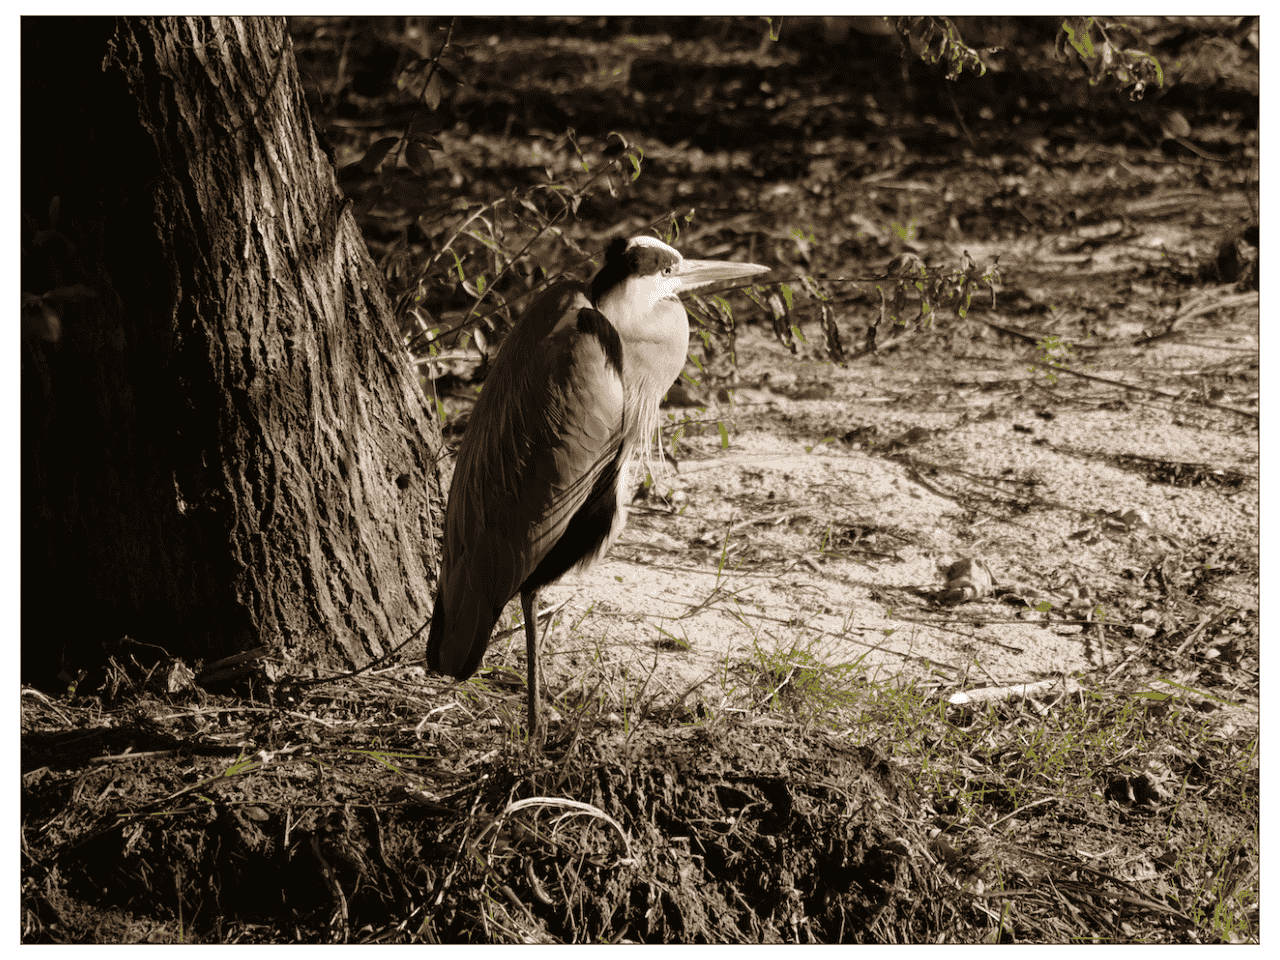
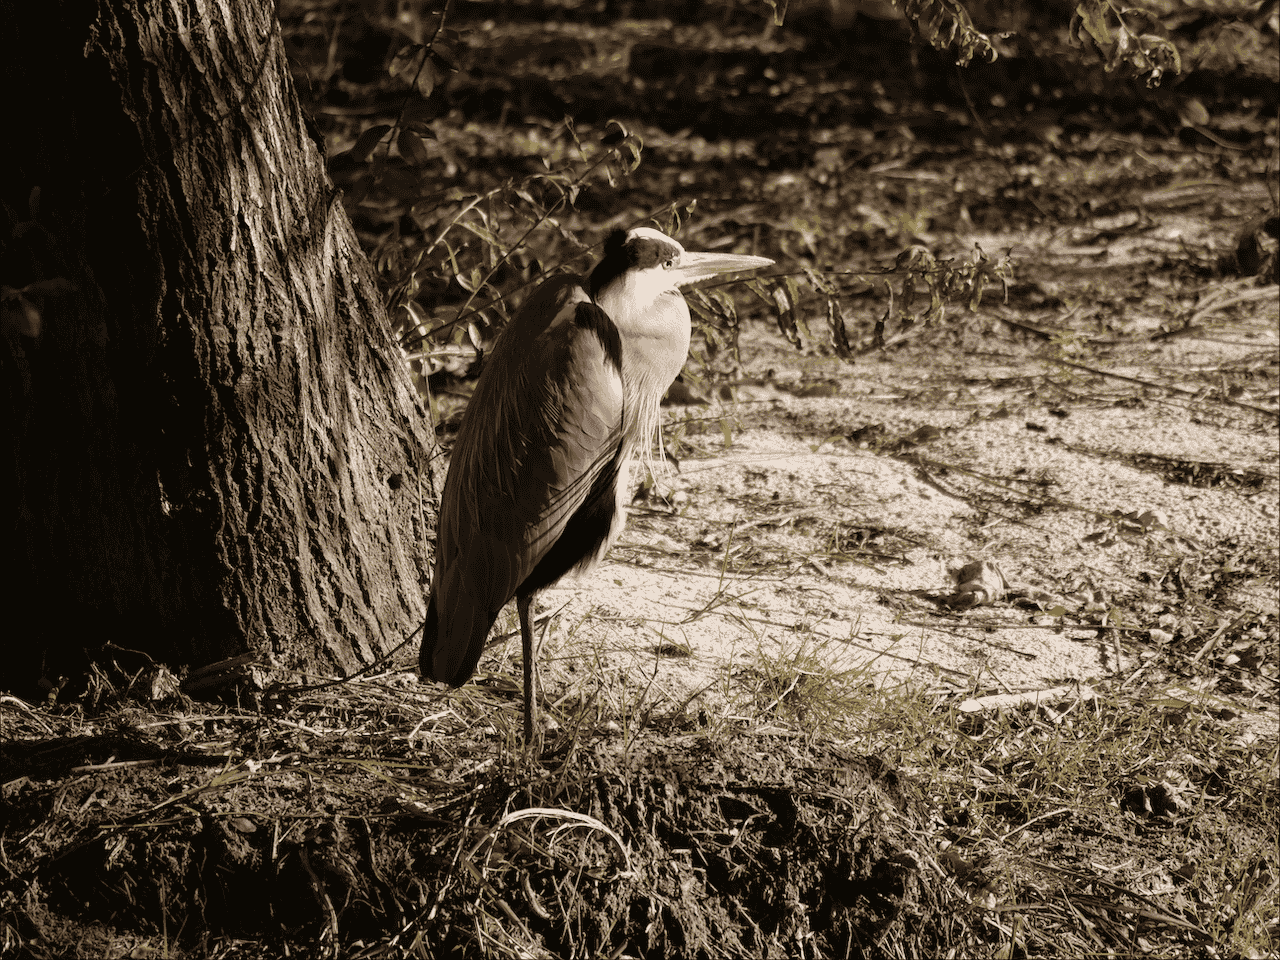
rm border

diff --git a/README.md b/README.md
@@ -63,10 +63,10 @@ Here's an example where color quantization does not work as well:
 using CairoMakie, LibImageQuant, PNGFiles
 CairoMakie.activate!(px_per_unit=1)
 # https://ericphanson.com/photos/?photo=photos%2F2025%2F11%2FP1038134-0464108A
-img = PNGFiles.load("heron.png")
+img = PNGFiles.load("assets/heron.png")
 img = rotr90(img)
 
-fig = Figure(; size=size(img));
+fig = Figure(; size=size(img), figure_padding=0.0);
 ax = Axis(fig[1,1], aspect = DataAspect())
 hidedecorations!(ax)
 image!(ax, img)
@@ -141,3 +141,4 @@ Notes:
 
 - the GPL does not impose obligations on internal use (e.g. within a company or organization), it is concerned with distribution to third parties (and their access to the source code)
 - _plots_ and _images_ processed via libimagequant are not bound by the license for the _source code_ of libimagequant.
+- they offer a [commercial license](https://github.com/ImageOptim/libimagequant/tree/main?tab=readme-ov-file#license) as well
